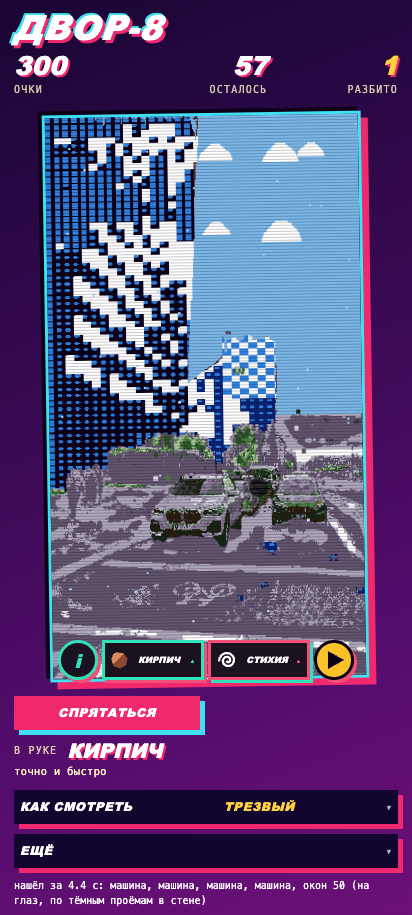
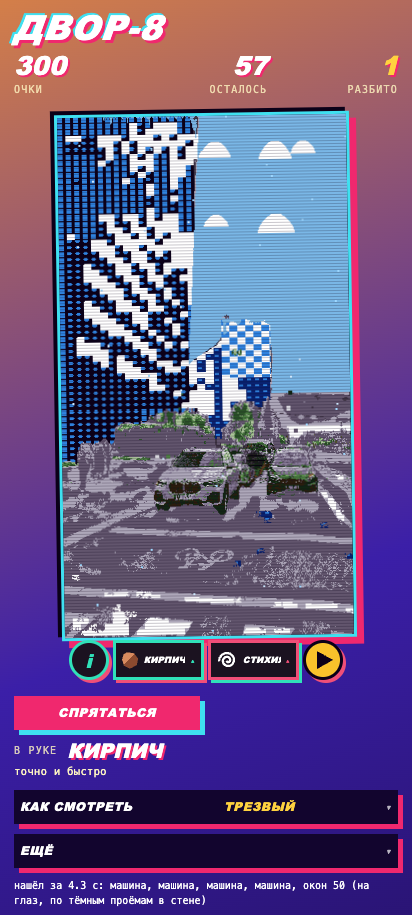
visual audit round 4: the toolbar stops covering the picture
Measured: the art occupied y 113-680 and the chip bar y 640-680 — the toolbar covered the picture's last
40 rows, because the bar is absolutely positioned at the frame's bottom and the art's window (the tilt)
filled the frame. The frame now reserves the bar's own strip (--barh, set when the yard is sized) and the
tilt stops above it: the art ends at y 639, the bar starts at 640 — adjacent, nothing covered.

Chain PASSED, suite 321/0, baseline 50/50 (shots refreshed after the source change).

Also this round: the tall building's 'white blobs' audit item DISSOLVED with a corrected measurement —
among non-sky pixels the wall is 2.6% light (ink 54.7 / glass 31.3 / plane 8.9), i.e. a proper dark
curtain wall; the 29.7% that sent four hypotheses chasing was mostly SKY inside the measuring rect.

diff --git a/src/main.js b/src/main.js
@@ -316,6 +316,19 @@ function setSize(w, h) {
   canvas.width = w; canvas.height = h;
   document.documentElement.style.setProperty('--aspect', String(w / h));
   buf = makeBuffer(w, h);
+  // THE TOOLBAR DOES NOT SIT ON THE PICTURE. Measured: the art occupied y 113-680 and the chip bar y 640-680, so the
+  // toolbar covered the picture's last 40 rows. The frame's aspect is the ART's, and the bar is absolutely positioned
+  // at its bottom - so the bar always eats into the art. The frame is therefore given the art's height PLUS the bar's
+  // own strip, and the bar keeps its place at the bottom of the frame, below the picture: nothing of the art is
+  // covered, and the aspect the art is drawn with is untouched.
+  const bar = document.getElementById('bar');
+  if (bar) {
+    const bh = Math.ceil(bar.getBoundingClientRect().height) || 44;
+    const ratio = w / h;
+    document.documentElement.style.setProperty('--aspect', String(w / (h + bh)));
+    document.documentElement.style.setProperty('--barh', `${bh}px`);
+    void ratio;
+  }
 }
 // The windows in the walls, added to the things the detector found. `big` is the same crop at several
 // picture-pixels to one of the game's, where a window still has a shape; a drawn yard has none and is
@@ -401,6 +414,8 @@ async function build(rgba, w, h, dets, big = null) {
     window.__PANE = params.get('pane') ? params.get('pane').split(',').map(Number) : null;
     window.__RING = params.get('ring') === '1';
     window.__NOCHECK = params.get('nocheck') === '1';
+    window.__baysProbe = params.get('bays') === '1';
+    window.__passes = params.get('passes') === '1' ? [] : null;
     window.__MULL = params.get('mull') ? Number(params.get('mull')) : 3;   // the accepted curtain wall's mullion
     window.__COVER = params.get('cover') ? Number(params.get('cover')) : 0.5;
     window.__SHADOW = params.get("shadow") ? Number(params.get("shadow")) : 1;

diff --git a/style.css b/style.css
@@ -37,7 +37,9 @@ h1 { margin: 0; font: italic 900 34px/1 var(--display); letter-spacing: .04em; c
 main { display: flex; flex-direction: column; gap: 10px; align-items: center; }
 /* The frame holds its place; the tilt inside it leans. A tap is carried back through the same lean. */
 .frame { position: relative; width: min(100%, calc(62vh * var(--aspect))); aspect-ratio: var(--aspect); margin: 6px 0; }
-.tilt { position: absolute; inset: 0; border: 3px solid var(--cyan); box-shadow: 7px 7px 0 var(--pink), -4px -4px 0 var(--ink);
+/* THE TOOLBAR'S STRIP IS RESERVED: the tilt (the art's window) stops above the bar, so no part of the picture is
+   covered by the chip row. --barh is set by main.js when the yard is sized. */
+.tilt { position: absolute; inset: 0 0 var(--barh, 0) 0; border: 3px solid var(--cyan); box-shadow: 7px 7px 0 var(--pink), -4px -4px 0 var(--ink);
   background: var(--ink); overflow: hidden; touch-action: none; will-change: transform; }
 .tilt::after { content: ""; position: absolute; inset: 0; pointer-events: none;
   background: repeating-linear-gradient(to bottom, transparent 0 2px, rgba(11, 0, 24, .22) 2px 3px); }
